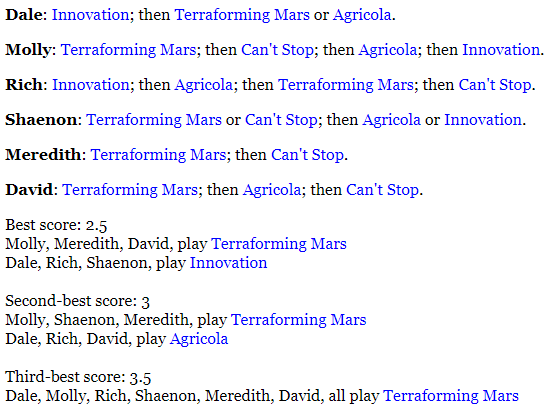
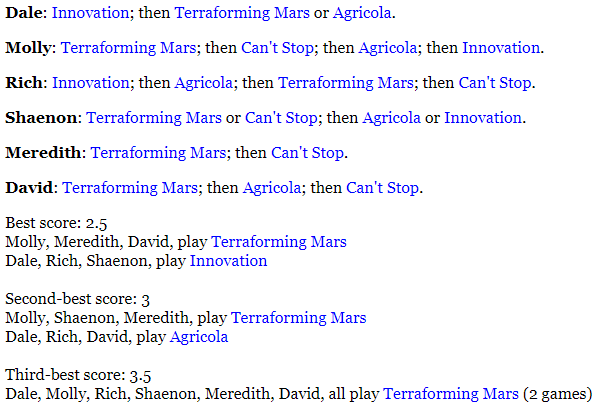
Clarify multiple game instances

diff --git a/py/ggo.py b/py/ggo.py
@@ -8,7 +8,7 @@ import time
 # An offset of 1.5 means 5 2nd places = 3 1st + 2 3rd places.
 offset = 1.5
 maxPlayers = 15
-maxGames = 10
+maxGames = 12
 maxTables = 3
 
 class DbData:
@@ -29,14 +29,18 @@ class GameGroup:
         gamesToPlayers = dict()
         for (group, game) in zip(self.groups, self.games):
             gamesToPlayers.setdefault(game, []).extend(group)
+        minPlayersPerGame = len(playerNames) / len(self.groups)
             
         result = ""
         for (game, players) in gamesToPlayers.items():
             for player in players:
                 result += cgi.escape(playerNames[player], True) + ", "
-            if len(players) > 1 + len(playerNames) / len(self.groups):
+            if len(players) > 1 + minPlayersPerGame:
                 result += "all "
-            result += "play <span class=\"gamename\">" + cgi.escape(gameNames[game], True) + "</span><br />"
+            result += "play <span class=\"gamename\">" + cgi.escape(gameNames[game], True) + "</span>"
+            if len(players) > 1 + minPlayersPerGame:
+                result += " (" + str(len(players) / minPlayersPerGame) + " games)"
+            result += "<br />"
         return result + "<br />"
 
 def rank(dbData):

diff --git a/html/ggo/howitworks.php b/html/ggo/howitworks.php
@@ -12,7 +12,7 @@ require 'header.php';
 
 <body>
 <h1>How it works</h1>
-<p>Step 1: Enter your available games.</p>
+<p>Step 1: Enter your available games. (If you have a lot of games, have each player pick one.)</p>
 <img class="demo" src="images/Step1.png"/>
 <p>Step 2: Each player ranks their choices.</p>
 <img class="demo" src="images/Step2.png"/>
